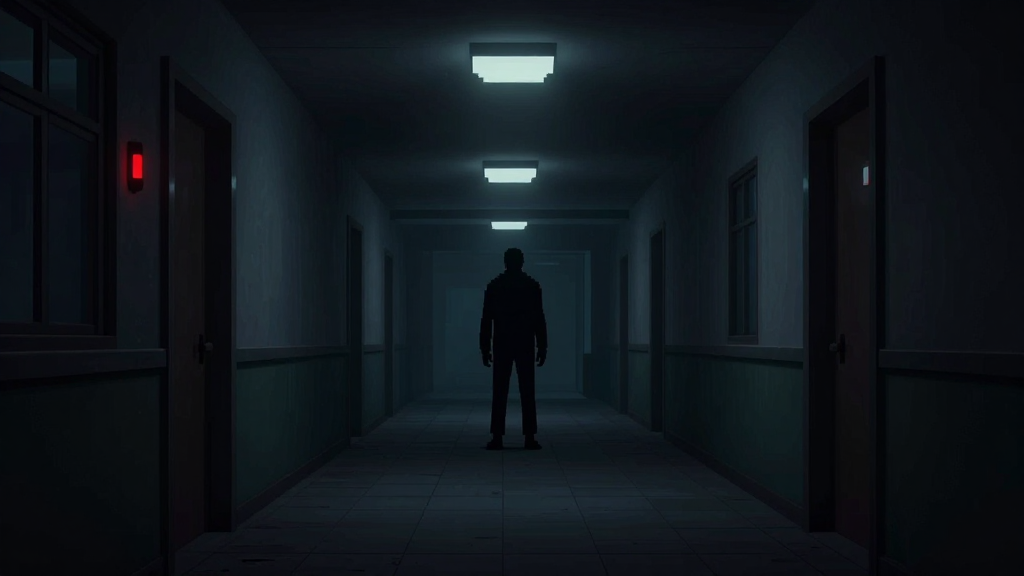
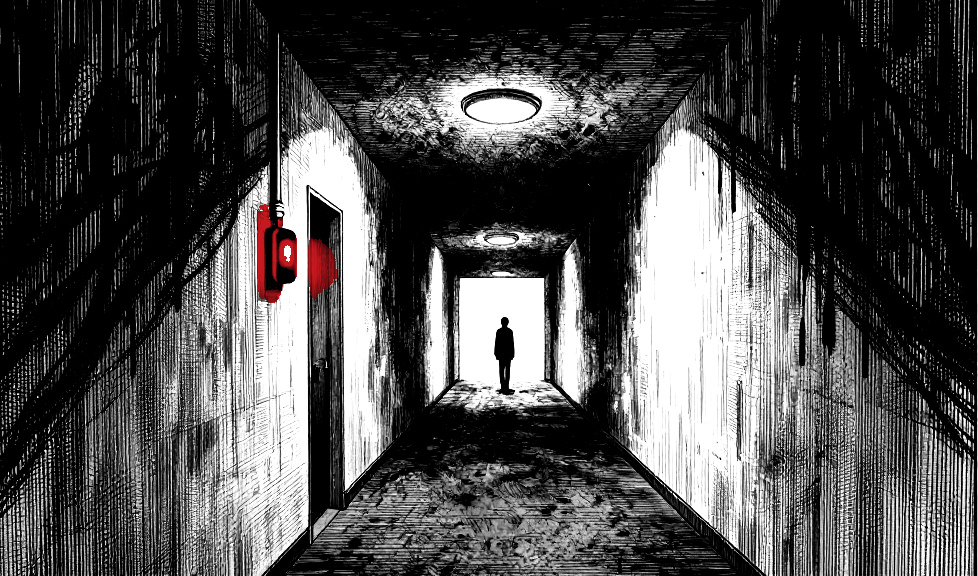
feat(cutscene): ink-style tutorial outro CGs + push-in motion
- Redraw tutorial_outro_1..3 as black-and-white ink panels (empty classroom at dawn / faceless silhouette in dark corridor with red emergency light / stairwell up to blown-out doorway)
- intro.gd: per-scene zoom/jitter for OUTRO_SCENES
- Reshoot shot_outro.png

diff --git a/开发记录.md b/开发记录.md
@@ -205,6 +205,16 @@ tests/                  自动化测试与截图脚本、截图基线
 
 ## 6. 变更日志
 
+### 2026-11-05（新手关结尾 3 张 CG 也换成水墨版）
+
+- 之前开场和暴君分镜已经是水墨漫画，新手关结尾（`tutorial_outro_1~3`）还是旧的写实/低多边形风，放一起会跳。
+- 三张按同一套画风重出（`tools/manifests/outro_panels.json`），用 `tools/finalize_cg.py` 裁白边 + 强制黑白单红后落到 `art/cutscene/`：
+  - `tutorial_outro_1`：空教室，晨光从左侧窗子打进来，门上一点红色指示灯。
+  - `tutorial_outro_2`：暗走廊里一个**没有脸的瘦长人影**站在灯下，左边墙上红色应急灯——配合台词「楼上，有什么东西在翻书」。
+  - `tutorial_outro_3`：仰视楼梯，尽头门洞过曝，扶手斜切画面。
+- 动效沿用开场那套 `_cam` 推镜：第 1 张 1.01→1.09、抖动 0.6；第 2 张走危险镜头默认（1.04→1.18、抖动 2.4）；第 3 张 1.02→1.16、抖动 1.0（上楼的压迫感）。
+- 验证：`--headless --import` exit=0；四套测试全绿；`shot_outro.png` 重拍（已确认是水墨版并被推镜放大）。
+
 ### 2026-11-05（D7 UI 三音：Kenney Interface Sounds，CC0）
 
 - 需求：补齐「UI 三音统一」，且用户明确**不要程序合成，找现成素材**。

diff --git a/HANDOFF.md b/HANDOFF.md
@@ -22,6 +22,9 @@
 
 ## 本轮已完成
 
+- **新手关结尾 3 张 CG 水墨化（2026-11-05）**：
+  - `tutorial_outro_1~3` 换成水墨版（`tools/manifests/outro_panels.json` → `tools/finalize_cg.py` → `art/cutscene/`）：空教室晨光 / 暗走廊无脸人影 + 红色应急灯 / 仰视楼梯过曝门洞。
+  - `intro.gd` 的 `OUTRO_SCENES` 补上推镜参数：1 号 1.01→1.09（抖动 0.6）、2 号危险镜头默认、3 号 1.02→1.16（抖动 1.0）。
 - **开场 CG 重做 + 伪动效（2026-11-04）**：
   - 三张 16:9 水墨稿覆盖 `art/cutscene/intro_classroom|intro_board|intro_hall.png`，清单 `tools/manifests/intro_panels.json`。
   - 新增 `tools/finalize_cg.py`：裁白边 + 强制黑白单红，可选 `--dark` / `--blur`（黑板那张就是压暗+虚化出来的）。
